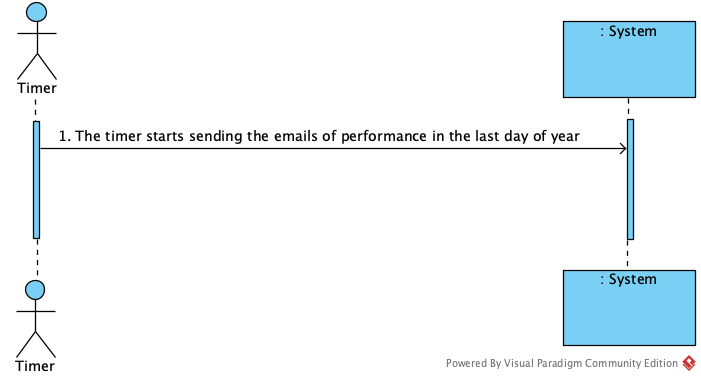
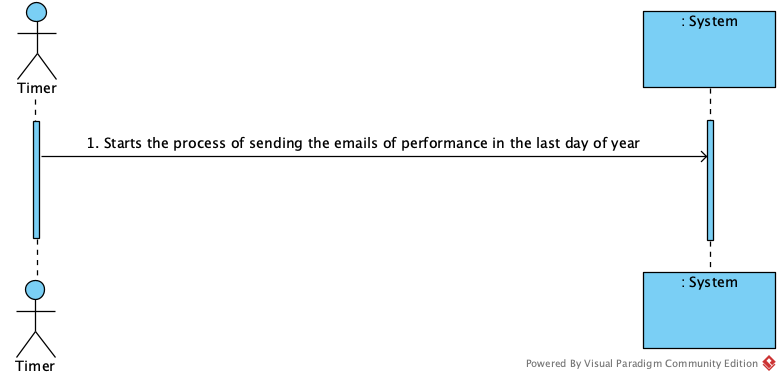
[UC10][SSD]

Changed region(s): [[0.0, 0.0, 0.9287, 0.9842], [0.6291, 0.6947, 1.0, 0.9842], [0.7789, 0.0289, 1.0, 0.2605]]

diff --git a/docs/UC10/UC10_sendEmailsAboutFreelancersPerformance.md b/docs/UC10/UC10_sendEmailsAboutFreelancersPerformance.md
@@ -4,7 +4,7 @@
 
 ### Brief Format
 
-The timer starts sending emails on the last day of the year according to the task delay and the percentage of the freelancers tasks delay.
+The timer starts the process of sending emails on the last day of the year according to the task delay and the percentage of the freelancers tasks delay.
 
 
 ### SSD
@@ -31,11 +31,11 @@ Exist freelancers to send emails.
 
 #### Postconditions
 
-the emails with the performance of the freelancers are sent to the respective
+The emails with the performance of the freelancers are sent to the respective
 
 #### Main success scenario (or basic flow)
 
-1. The timer starts sending emails to freelancers about your performances on the last day of the year in question.
+1. The last day of the year is reached .
 2. The system checks if the process is taking place on the last day of the year, identify the freelancers who have a task delay greater than 3 hours and their percentage of task delay higher than the percentage of overall delays. Then sends emails to them.
  
 
@@ -60,8 +60,6 @@ the emails with the performance of the freelancers are sent to the respective
 All the last days of the years.
 
 #### Open questions
-
-
 
 
 ## 2. Análise OO
